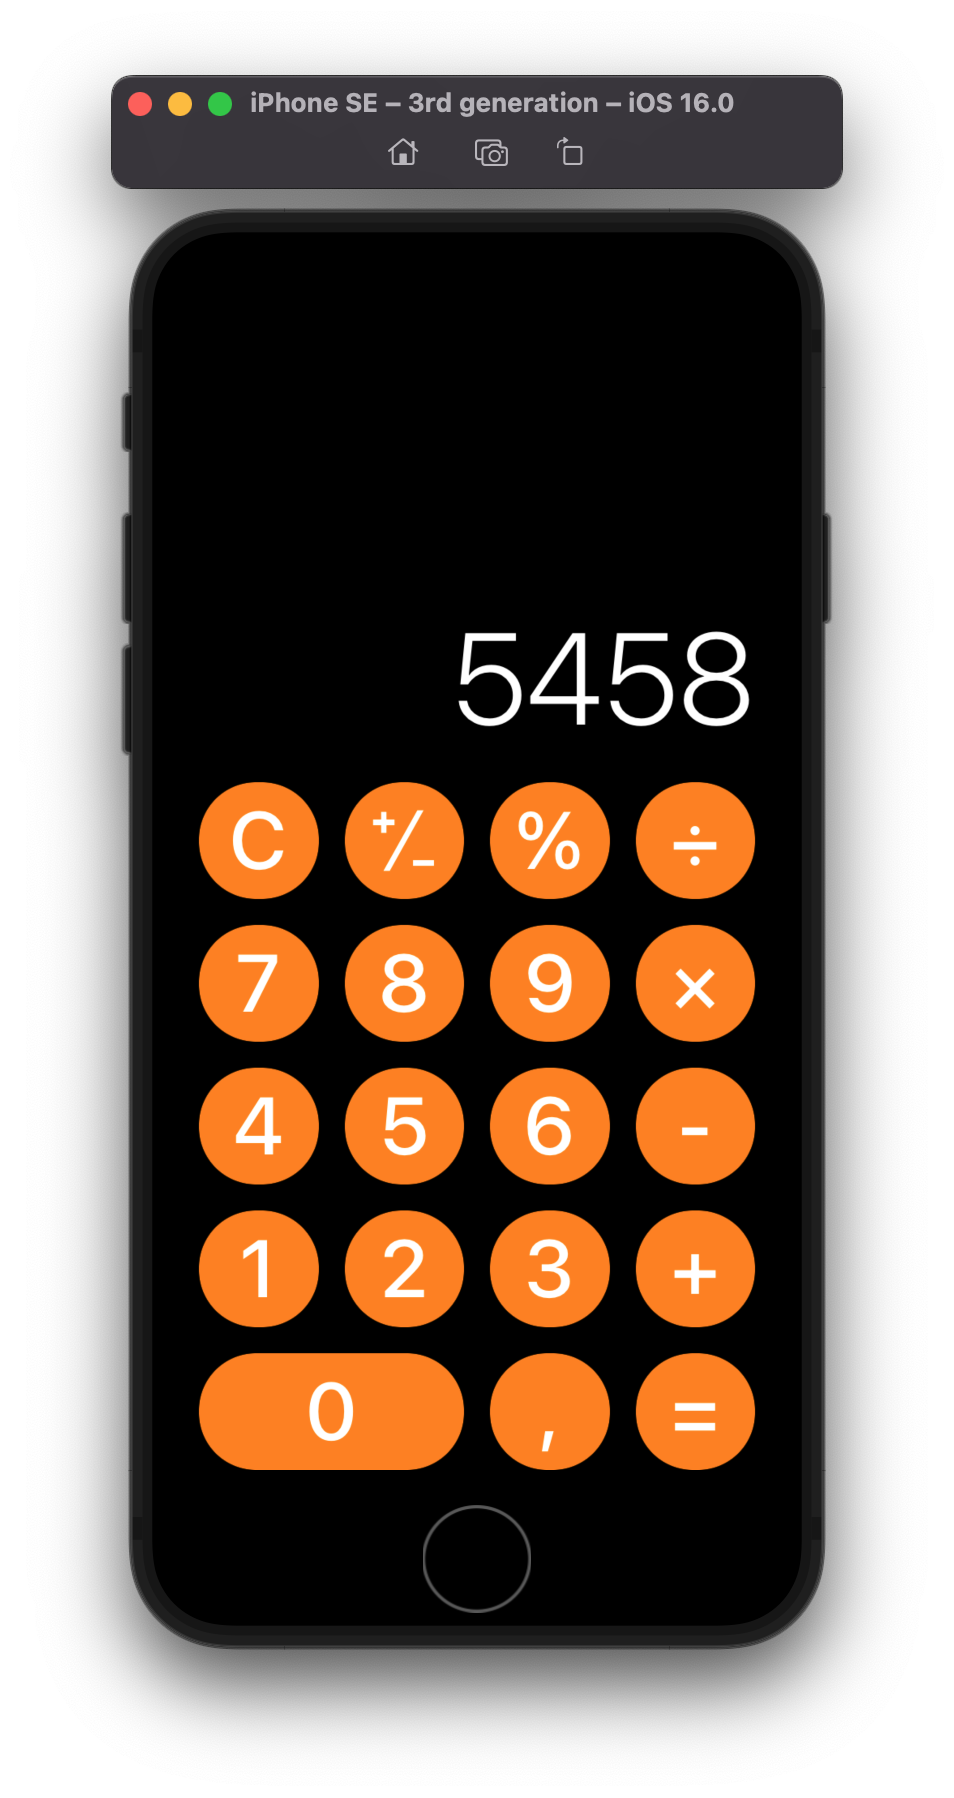
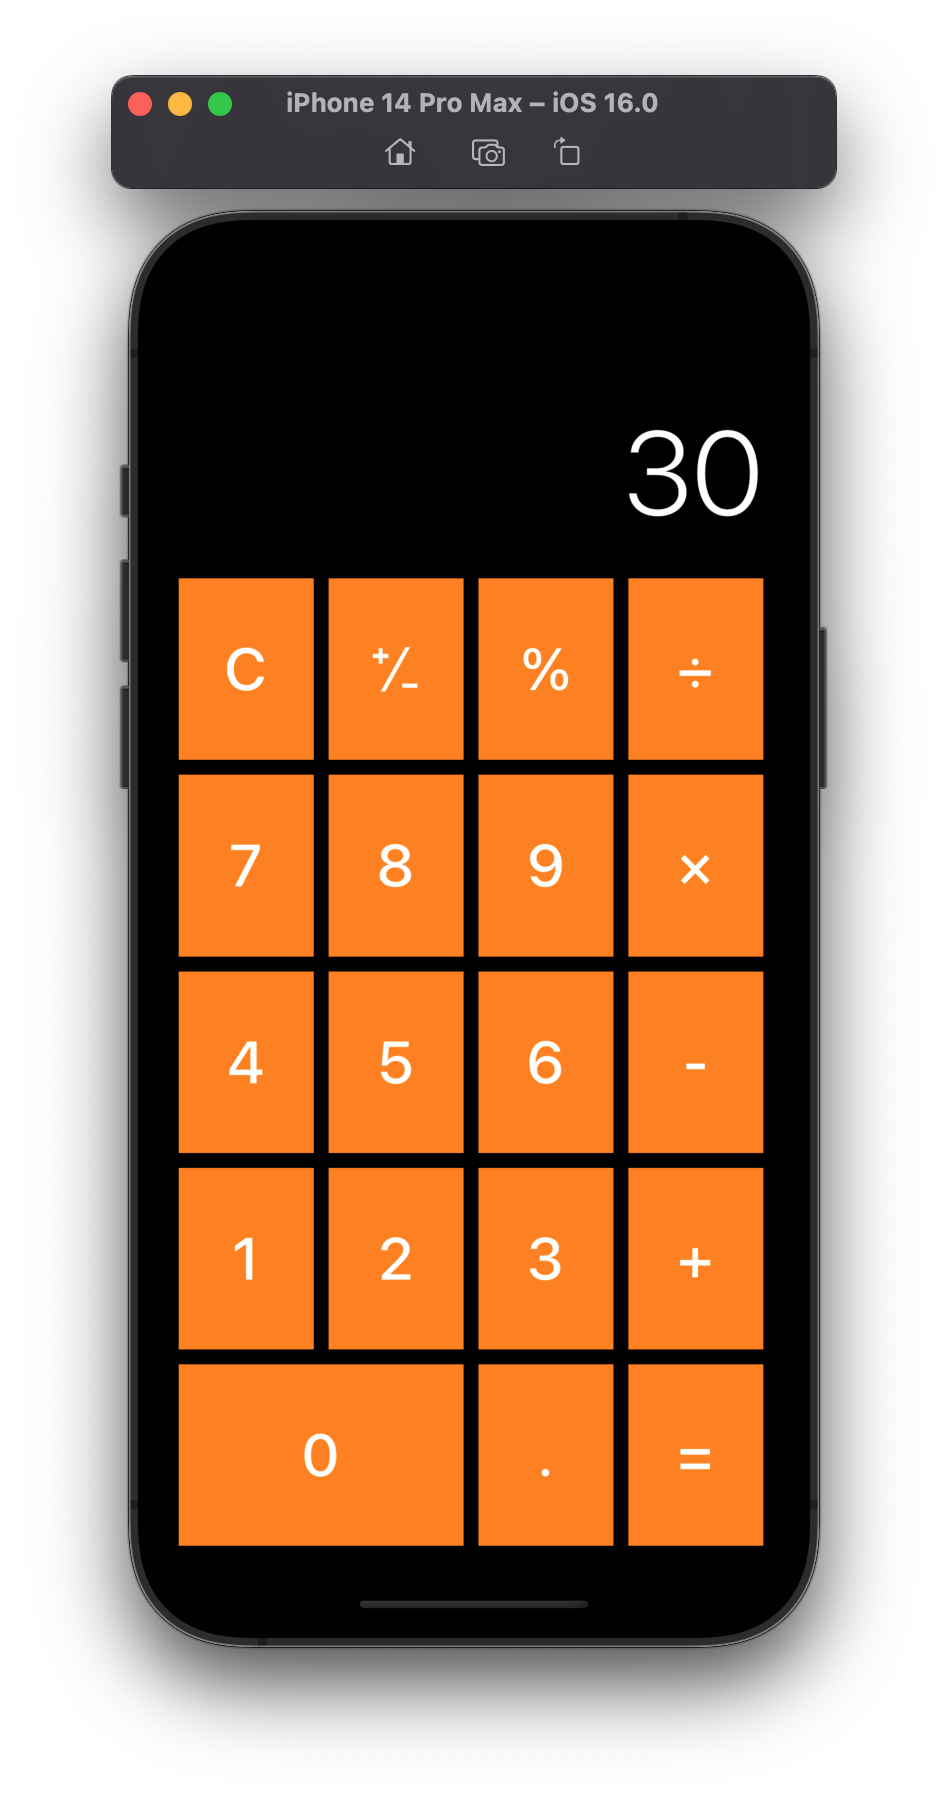
done everythink

diff --git a/PetProject/ViewControllers/CalculatorViewController.swift b/PetProject/ViewControllers/CalculatorViewController.swift
@@ -50,36 +50,37 @@ final class CalculatorViewController: UIViewController {
         let stack = UIStackView()
         stack.translatesAutoresizingMaskIntoConstraints = false
         stack.axis = .vertical
-        stack.spacing = 16
+        stack.distribution = .fillEqually
+        stack.spacing = 10
         return stack
     }()
     
     private lazy var upperStackView: UIStackView = {
-        setupStackView(spacing: 16)
+        setupStackView(spacing: 10)
     }()
     
     private lazy var preUpperStackView: UIStackView = {
-        setupStackView(spacing: 16)
+        setupStackView(spacing: 10)
     }()
     
     private lazy var middleStackView: UIStackView = {
-        setupStackView(spacing: 16)
+        setupStackView(spacing: 10)
     }()
     
     private lazy var preMiddleStackView: UIStackView = {
-        setupStackView(spacing: 16)
+        setupStackView(spacing: 10)
     }()
     
     private lazy var zeroStack: UIStackView = {
-        setupStackView(spacing: 16)
+        setupStackView(spacing: 10)
     }()
     
     private lazy var commaEqualStackView: UIStackView = {
-        setupStackView(spacing: 16)
+        setupStackView(spacing: 10)
     }()
     
     private lazy var lowStackView: UIStackView = {
-        setupStackView(spacing: 16)
+        setupStackView(spacing: 10)
     }()
     
     private lazy var zeroButton: UIButton = {
@@ -283,12 +284,12 @@ final class CalculatorViewController: UIViewController {
         [zeroStack, commaEqualStackView] . forEach { lowStackView.addArrangedSubview($0)}
         NSLayoutConstraint.activate([
             
-            resultLabel.heightAnchor.constraint(equalToConstant: 100),
-            
-            mainStack.topAnchor.constraint(equalTo: resultLabel.bottomAnchor, constant: 10),
+        
+            mainStack.topAnchor.constraint(equalTo: view.safeAreaLayoutGuide.topAnchor),
             mainStack.leadingAnchor.constraint(equalTo: view.safeAreaLayoutGuide.leadingAnchor, constant: 16),
-            mainStack.bottomAnchor.constraint(equalTo: view.safeAreaLayoutGuide.bottomAnchor),
-            mainStack.trailingAnchor.constraint(equalTo: view.safeAreaLayoutGuide.trailingAnchor, constant: -16),
+            mainStack.bottomAnchor.constraint(equalTo: view.safeAreaLayoutGuide.bottomAnchor, constant: -16),
+            mainStack.trailingAnchor.constraint(equalTo: view.safeAreaLayoutGuide.trailingAnchor, constant: -20),
+            mainStack.centerYAnchor.constraint(equalTo: view.centerYAnchor, constant: -100),
             
             zeroStack.widthAnchor.constraint(equalToConstant: 200),
         ])
@@ -310,10 +311,8 @@ extension CalculatorViewController {
     private func setupButton(title: String?) -> UIButton {
         let button = UIButton()
         button.translatesAutoresizingMaskIntoConstraints = false
-        button.layer.cornerRadius = 35
-        button.clipsToBounds = true
         button.setTitle(title, for: .normal)
-        button.titleLabel?.font = UIFont.systemFont(ofSize: 50, weight: .medium)
+        button.titleLabel?.font = UIFont.systemFont(ofSize: 40, weight: .medium)
         button.backgroundColor = .orange
         return button
     }
